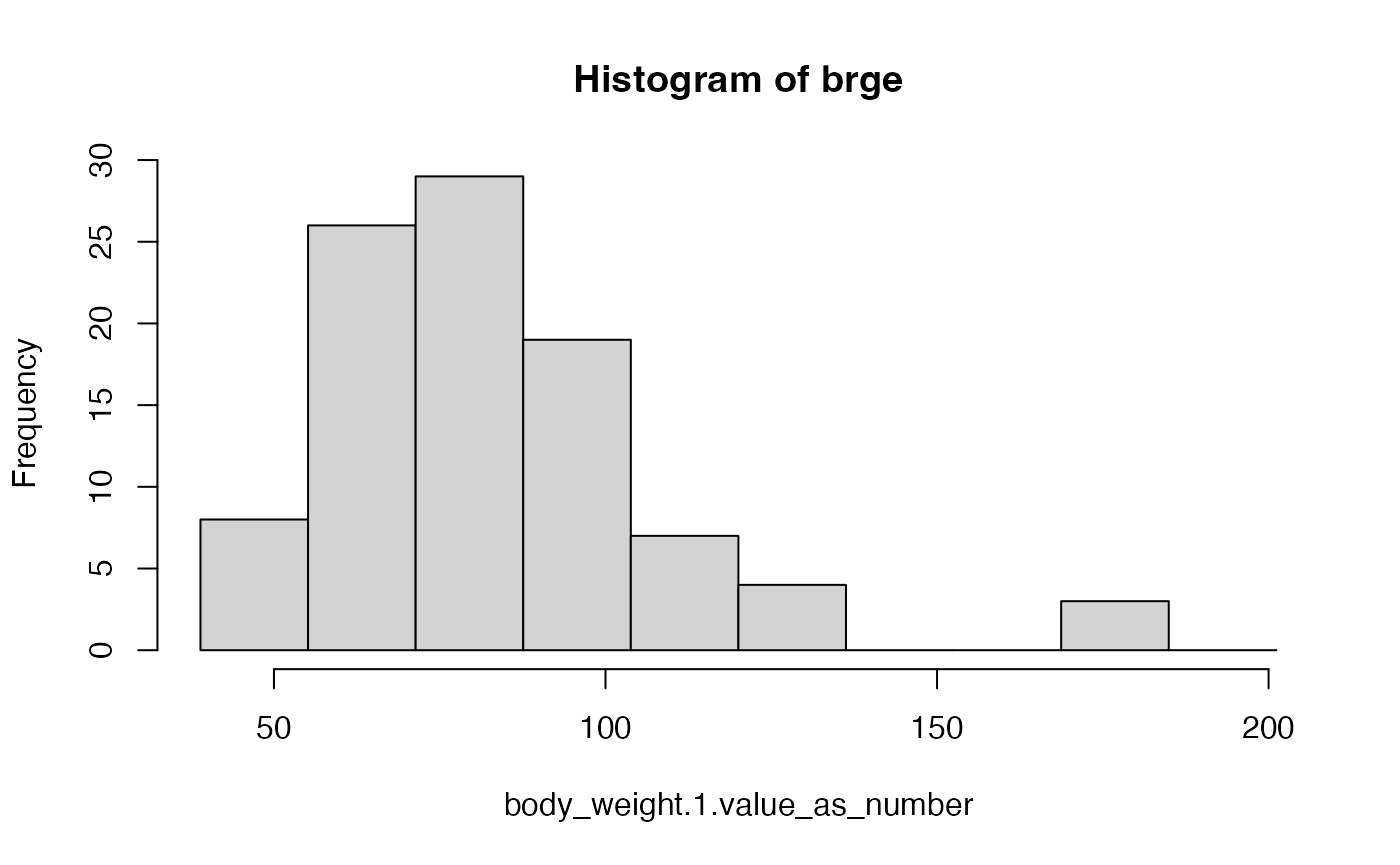
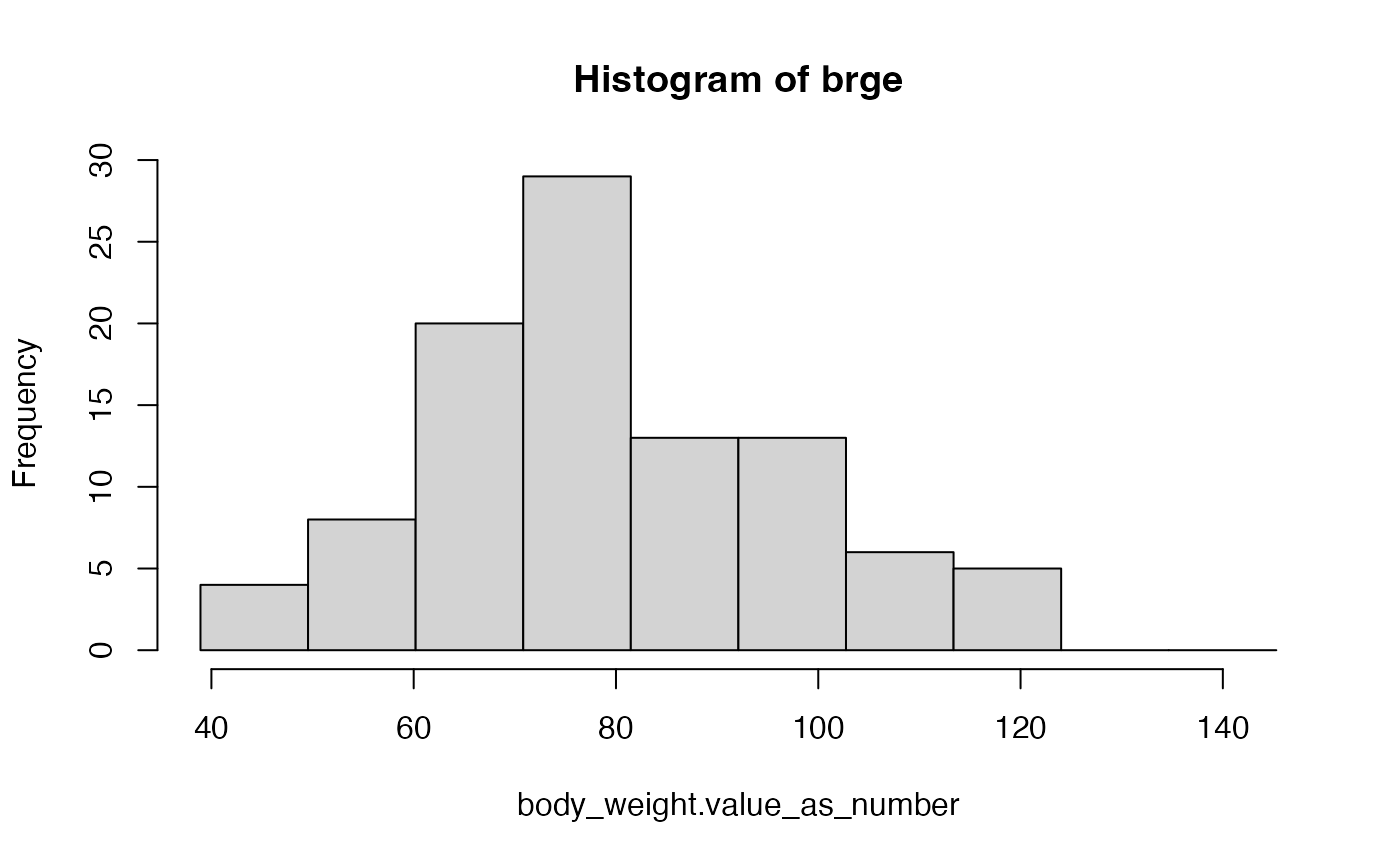
docs: long longitudinal

diff --git a/docs/articles/demo.html b/docs/articles/demo.html
@@ -316,12 +316,6 @@ variables of interest.</p>
 data extraction functions of <code>dsOMOPHelper</code> in conjunction
 with DataSHIELD’s environment functions to manipulate and analyze the
 data.</p>
-<p><code>dsOMOP</code> sequences the longitudinal data in different
-columns if it detects several occurrences of a certain type of variable
-associated with the same <code>person_id</code>. We will not be doing
-any aggregation of the data for this example, but instead, we will be
-working with the first occurrence of each kind of variable. This is why
-we will be using the suffix <code>.1</code> in the variable names.</p>
 <p>Let’s say we want to add the observation
 <code>Marital status [NHANES]</code> to our study table. To do this, we
 first need to identify the corresponding concept, which in this case is
@@ -335,7 +329,7 @@ from the <code>value_as_concept_id</code> column.</p>
 <span>       concepts <span class="op">=</span> <span class="fu"><a href="https://rdrr.io/r/base/c.html" class="external-link">c</a></span><span class="op">(</span><span class="fl">40766231</span><span class="op">)</span>,</span>
 <span>       columns <span class="op">=</span> <span class="fu"><a href="https://rdrr.io/r/base/c.html" class="external-link">c</a></span><span class="op">(</span><span class="st">"value_as_concept_id"</span><span class="op">)</span><span class="op">)</span></span>
 <span></span>
-<span><span class="fu"><a href="https://rdrr.io/pkg/dsBaseClient/man/ds.summary.html" class="external-link">ds.summary</a></span><span class="op">(</span><span class="st">"mimiciv$marital_status_nhanes.1.value_as_concept_id"</span><span class="op">)</span></span></code></pre></div>
+<span><span class="fu"><a href="https://rdrr.io/pkg/dsBaseClient/man/ds.summary.html" class="external-link">ds.summary</a></span><span class="op">(</span><span class="st">"mimiciv$marital_status_nhanes.value_as_concept_id"</span><span class="op">)</span></span></code></pre></div>
 <pre><code><span><span class="co">## $brge</span></span>
 <span><span class="co">## $brge$class</span></span>
 <span><span class="co">## [1] "factor"</span></span>
@@ -366,46 +360,46 @@ with the following categories: <code>divorced</code>,
 <code>dsBaseClient</code> to obtain a frequency table of that same
 variable:</p>
 <div class="sourceCode" id="cb15"><pre class="downlit sourceCode r">
-<code class="sourceCode R"><span><span class="fu"><a href="https://rdrr.io/pkg/dsBaseClient/man/ds.table.html" class="external-link">ds.table</a></span><span class="op">(</span><span class="st">"mimiciv$marital_status_nhanes.1.value_as_concept_id"</span><span class="op">)</span></span></code></pre></div>
+<code class="sourceCode R"><span><span class="fu"><a href="https://rdrr.io/pkg/dsBaseClient/man/ds.table.html" class="external-link">ds.table</a></span><span class="op">(</span><span class="st">"mimiciv$marital_status_nhanes.value_as_concept_id"</span><span class="op">)</span></span></code></pre></div>
 <pre><code><span><span class="co">## </span></span>
 <span><span class="co">##  Data in all studies were valid </span></span>
 <span><span class="co">## </span></span>
 <span><span class="co">## Study 1 :  No errors reported from this study</span></span></code></pre>
 <pre><code><span><span class="co">## $output.list</span></span>
 <span><span class="co">## $output.list$TABLE_rvar.by.study_row.props</span></span>
-<span><span class="co">##                                                    study</span></span>
-<span><span class="co">## mimiciv$marital_status_nhanes.1.value_as_concept_id brge</span></span>
-<span><span class="co">##                                       divorced         1</span></span>
-<span><span class="co">##                                       married          1</span></span>
-<span><span class="co">##                                       never_married    1</span></span>
-<span><span class="co">##                                       widowed          1</span></span>
-<span><span class="co">##                                       NA               1</span></span>
+<span><span class="co">##                                                  study</span></span>
+<span><span class="co">## mimiciv$marital_status_nhanes.value_as_concept_id brge</span></span>
+<span><span class="co">##                                     divorced         1</span></span>
+<span><span class="co">##                                     married          1</span></span>
+<span><span class="co">##                                     never_married    1</span></span>
+<span><span class="co">##                                     widowed          1</span></span>
+<span><span class="co">##                                     NA               1</span></span>
 <span><span class="co">## </span></span>
 <span><span class="co">## $output.list$TABLE_rvar.by.study_col.props</span></span>
-<span><span class="co">##                                                    study</span></span>
-<span><span class="co">## mimiciv$marital_status_nhanes.1.value_as_concept_id brge</span></span>
-<span><span class="co">##                                       divorced      0.10</span></span>
-<span><span class="co">##                                       married       0.37</span></span>
-<span><span class="co">##                                       never_married 0.30</span></span>
-<span><span class="co">##                                       widowed       0.13</span></span>
-<span><span class="co">##                                       NA            0.10</span></span>
+<span><span class="co">##                                                  study</span></span>
+<span><span class="co">## mimiciv$marital_status_nhanes.value_as_concept_id brge</span></span>
+<span><span class="co">##                                     divorced      0.10</span></span>
+<span><span class="co">##                                     married       0.37</span></span>
+<span><span class="co">##                                     never_married 0.30</span></span>
+<span><span class="co">##                                     widowed       0.13</span></span>
+<span><span class="co">##                                     NA            0.10</span></span>
 <span><span class="co">## </span></span>
 <span><span class="co">## $output.list$TABLE_rvar.by.study_counts</span></span>
-<span><span class="co">##                                                    study</span></span>
-<span><span class="co">## mimiciv$marital_status_nhanes.1.value_as_concept_id brge</span></span>
-<span><span class="co">##                                       divorced        10</span></span>
-<span><span class="co">##                                       married         37</span></span>
-<span><span class="co">##                                       never_married   30</span></span>
-<span><span class="co">##                                       widowed         13</span></span>
-<span><span class="co">##                                       NA              10</span></span>
+<span><span class="co">##                                                  study</span></span>
+<span><span class="co">## mimiciv$marital_status_nhanes.value_as_concept_id brge</span></span>
+<span><span class="co">##                                     divorced        10</span></span>
+<span><span class="co">##                                     married         37</span></span>
+<span><span class="co">##                                     never_married   30</span></span>
+<span><span class="co">##                                     widowed         13</span></span>
+<span><span class="co">##                                     NA              10</span></span>
 <span><span class="co">## </span></span>
 <span><span class="co">## $output.list$TABLES.COMBINED_all.sources_proportions</span></span>
-<span><span class="co">## mimiciv$marital_status_nhanes.1.value_as_concept_id</span></span>
+<span><span class="co">## mimiciv$marital_status_nhanes.value_as_concept_id</span></span>
 <span><span class="co">##      divorced       married never_married       widowed            NA </span></span>
 <span><span class="co">##          0.10          0.37          0.30          0.13          0.10 </span></span>
 <span><span class="co">## </span></span>
 <span><span class="co">## $output.list$TABLES.COMBINED_all.sources_counts</span></span>
-<span><span class="co">## mimiciv$marital_status_nhanes.1.value_as_concept_id</span></span>
+<span><span class="co">## mimiciv$marital_status_nhanes.value_as_concept_id</span></span>
 <span><span class="co">##      divorced       married never_married       widowed            NA </span></span>
 <span><span class="co">##            10            37            30            13            10 </span></span>
 <span><span class="co">## </span></span>
@@ -423,7 +417,7 @@ table. In this scenario, our goal is to retrieve data from the
 <span>       concepts <span class="op">=</span> <span class="fu"><a href="https://rdrr.io/r/base/c.html" class="external-link">c</a></span><span class="op">(</span><span class="fl">3025315</span><span class="op">)</span>,</span>
 <span>       columns <span class="op">=</span> <span class="fu"><a href="https://rdrr.io/r/base/c.html" class="external-link">c</a></span><span class="op">(</span><span class="st">"value_as_number"</span><span class="op">)</span><span class="op">)</span></span>
 <span></span>
-<span><span class="fu"><a href="https://rdrr.io/pkg/dsBaseClient/man/ds.summary.html" class="external-link">ds.summary</a></span><span class="op">(</span><span class="st">"mimiciv$body_weight.1.value_as_number"</span><span class="op">)</span></span></code></pre></div>
+<span><span class="fu"><a href="https://rdrr.io/pkg/dsBaseClient/man/ds.summary.html" class="external-link">ds.summary</a></span><span class="op">(</span><span class="st">"mimiciv$body_weight.value_as_number"</span><span class="op">)</span></span></code></pre></div>
 <pre><code><span><span class="co">## $brge</span></span>
 <span><span class="co">## $brge$class</span></span>
 <span><span class="co">## [1] "numeric"</span></span>
@@ -433,29 +427,29 @@ table. In this scenario, our goal is to retrieve data from the
 <span><span class="co">## </span></span>
 <span><span class="co">## $brge$`quantiles &amp; mean`</span></span>
 <span><span class="co">##      5%     10%     25%     50%     75%     90%     95%    Mean </span></span>
-<span><span class="co">##  52.745  59.620  68.900  79.700  97.075 121.650 148.640  86.576</span></span></code></pre>
+<span><span class="co">##  52.745  59.620  68.000  77.850  93.275 104.300 117.150  80.254</span></span></code></pre>
 <p>As we can see, we have successfully obtained a numerical variable
 that contains the body weight of the patients.</p>
 <p>To visually inspect the distribution of that same variable, we can
 generate a histogram using the <code>ds.histogram</code> function from
 <code>dsBaseClient</code>:</p>
 <div class="sourceCode" id="cb20"><pre class="downlit sourceCode r">
-<code class="sourceCode R"><span><span class="fu"><a href="https://rdrr.io/pkg/dsBaseClient/man/ds.histogram.html" class="external-link">ds.histogram</a></span><span class="op">(</span><span class="st">"mimiciv$body_weight.1.value_as_number"</span><span class="op">)</span></span></code></pre></div>
+<code class="sourceCode R"><span><span class="fu"><a href="https://rdrr.io/pkg/dsBaseClient/man/ds.histogram.html" class="external-link">ds.histogram</a></span><span class="op">(</span><span class="st">"mimiciv$body_weight.value_as_number"</span><span class="op">)</span></span></code></pre></div>
 <p><img src="demo_files/figure-html/histogram_measurement-1.png" width="700"></p>
 <pre><code><span><span class="co">## $breaks</span></span>
-<span><span class="co">##  [1]  38.91912  55.14396  71.36879  87.59363 103.81847 120.04330 136.26814</span></span>
-<span><span class="co">##  [8] 152.49297 168.71781 184.94265 201.16748</span></span>
+<span><span class="co">##  [1]  38.91912  49.55597  60.19282  70.82967  81.46652  92.10337 102.74022</span></span>
+<span><span class="co">##  [8] 113.37707 124.01392 134.65078 145.28763</span></span>
 <span><span class="co">## </span></span>
 <span><span class="co">## $counts</span></span>
-<span><span class="co">##  [1]  8 26 29 19  7  4  0  0  3  0</span></span>
+<span><span class="co">##  [1]  4  8 20 29 13 13  6  5  0  0</span></span>
 <span><span class="co">## </span></span>
 <span><span class="co">## $density</span></span>
-<span><span class="co">##  [1] 0.004930712 0.016024815 0.017873832 0.011710442 0.004314373</span></span>
-<span><span class="co">##  [6] 0.002465356 0.000000000 0.000000000 0.001849017 0.000000000</span></span>
+<span><span class="co">##  [1] 0.003760512 0.007521023 0.018802558 0.027263710 0.012221663</span></span>
+<span><span class="co">##  [6] 0.012221663 0.005640767 0.004700640 0.000000000 0.000000000</span></span>
 <span><span class="co">## </span></span>
 <span><span class="co">## $mids</span></span>
-<span><span class="co">##  [1]  47.03154  63.25638  79.48121  95.70605 111.93088 128.15572 144.38056</span></span>
-<span><span class="co">##  [8] 160.60539 176.83023 193.05506</span></span>
+<span><span class="co">##  [1]  44.23755  54.87440  65.51125  76.14810  86.78495  97.42180 108.05865</span></span>
+<span><span class="co">##  [8] 118.69550 129.33235 139.96920</span></span>
 <span><span class="co">## </span></span>
 <span><span class="co">## $xname</span></span>
 <span><span class="co">## [1] "xvect"</span></span>
@@ -487,9 +481,9 @@ linear regression analysis:</p>
 <span>       concepts <span class="op">=</span> <span class="fu"><a href="https://rdrr.io/r/base/c.html" class="external-link">c</a></span><span class="op">(</span><span class="fl">3000483</span>, <span class="fl">3004410</span>, <span class="fl">3000593</span><span class="op">)</span>,</span>
 <span>       columns <span class="op">=</span> <span class="fu"><a href="https://rdrr.io/r/base/c.html" class="external-link">c</a></span><span class="op">(</span><span class="st">"value_as_number"</span><span class="op">)</span><span class="op">)</span></span>
 <span></span>
-<span><span class="fu"><a href="https://rdrr.io/pkg/dsBaseClient/man/ds.glm.html" class="external-link">ds.glm</a></span><span class="op">(</span>formula <span class="op">=</span> <span class="st">"glucose_mass_volume_in_blood.1.value_as_number ~ </span></span>
-<span><span class="st">                  hemoglobin_a1c_hemoglobin_total_in_blood.1.value_as_number + </span></span>
-<span><span class="st">                  cobalamin_vitamin_b12_mass_volume_in_serum_or_plasma.1.value_as_number"</span>,</span>
+<span><span class="fu"><a href="https://rdrr.io/pkg/dsBaseClient/man/ds.glm.html" class="external-link">ds.glm</a></span><span class="op">(</span>formula <span class="op">=</span> <span class="st">"glucose_mass_volume_in_blood.value_as_number ~ </span></span>
+<span><span class="st">                  hemoglobin_a1c_hemoglobin_total_in_blood.value_as_number + </span></span>
+<span><span class="st">                  cobalamin_vitamin_b12_mass_volume_in_serum_or_plasma.value_as_number"</span>,</span>
 <span>       data <span class="op">=</span> <span class="st">"mimiciv"</span>,</span>
 <span>       family <span class="op">=</span> <span class="st">"gaussian"</span>,</span>
 <span>       datasources <span class="op">=</span> <span class="va">conns</span><span class="op">)</span></span></code></pre></div>
@@ -506,24 +500,24 @@ linear regression analysis:</p>
 <span><span class="co">## beta: 120.958893279016 0.82795236254575 -0.0161066743745843</span></span></code></pre>
 <pre><code><span><span class="co">## </span></span>
 <span><span class="co">## Information matrix overall:</span></span></code></pre>
-<pre><code><span><span class="co">##                                                                        (Intercept)</span></span>
-<span><span class="co">## (Intercept)                                                                   10.0</span></span>
-<span><span class="co">## hemoglobin_a1c_hemoglobin_total_in_blood.1.value_as_number                    65.4</span></span>
-<span><span class="co">## cobalamin_vitamin_b12_mass_volume_in_serum_or_plasma.1.value_as_number      7434.0</span></span>
-<span><span class="co">##                                                                        hemoglobin_a1c_hemoglobin_total_in_blood.1.value_as_number</span></span>
-<span><span class="co">## (Intercept)                                                                                                                 65.40</span></span>
-<span><span class="co">## hemoglobin_a1c_hemoglobin_total_in_blood.1.value_as_number                                                                 451.24</span></span>
-<span><span class="co">## cobalamin_vitamin_b12_mass_volume_in_serum_or_plasma.1.value_as_number                                                   47292.00</span></span>
-<span><span class="co">##                                                                        cobalamin_vitamin_b12_mass_volume_in_serum_or_plasma.1.value_as_number</span></span>
-<span><span class="co">## (Intercept)                                                                                                                              7434</span></span>
-<span><span class="co">## hemoglobin_a1c_hemoglobin_total_in_blood.1.value_as_number                                                                              47292</span></span>
-<span><span class="co">## cobalamin_vitamin_b12_mass_volume_in_serum_or_plasma.1.value_as_number                                                                7317894</span></span></code></pre>
+<pre><code><span><span class="co">##                                                                      (Intercept)</span></span>
+<span><span class="co">## (Intercept)                                                                 10.0</span></span>
+<span><span class="co">## hemoglobin_a1c_hemoglobin_total_in_blood.value_as_number                    65.4</span></span>
+<span><span class="co">## cobalamin_vitamin_b12_mass_volume_in_serum_or_plasma.value_as_number      7434.0</span></span>
+<span><span class="co">##                                                                      hemoglobin_a1c_hemoglobin_total_in_blood.value_as_number</span></span>
+<span><span class="co">## (Intercept)                                                                                                             65.40</span></span>
+<span><span class="co">## hemoglobin_a1c_hemoglobin_total_in_blood.value_as_number                                                               451.24</span></span>
+<span><span class="co">## cobalamin_vitamin_b12_mass_volume_in_serum_or_plasma.value_as_number                                                 47292.00</span></span>
+<span><span class="co">##                                                                      cobalamin_vitamin_b12_mass_volume_in_serum_or_plasma.value_as_number</span></span>
+<span><span class="co">## (Intercept)                                                                                                                          7434</span></span>
+<span><span class="co">## hemoglobin_a1c_hemoglobin_total_in_blood.value_as_number                                                                            47292</span></span>
+<span><span class="co">## cobalamin_vitamin_b12_mass_volume_in_serum_or_plasma.value_as_number                                                              7317894</span></span></code></pre>
 <pre><code><span><span class="co">## </span></span>
 <span><span class="co">## Score vector overall:</span></span></code></pre>
-<pre><code><span><span class="co">##                                                                                 [,1]</span></span>
-<span><span class="co">## (Intercept)                                                            -2.799538e-12</span></span>
-<span><span class="co">## hemoglobin_a1c_hemoglobin_total_in_blood.1.value_as_number             -1.841727e-11</span></span>
-<span><span class="co">## cobalamin_vitamin_b12_mass_volume_in_serum_or_plasma.1.value_as_number -2.106390e-09</span></span></code></pre>
+<pre><code><span><span class="co">##                                                                               [,1]</span></span>
+<span><span class="co">## (Intercept)                                                          -2.799538e-12</span></span>
+<span><span class="co">## hemoglobin_a1c_hemoglobin_total_in_blood.value_as_number             -1.841727e-11</span></span>
+<span><span class="co">## cobalamin_vitamin_b12_mass_volume_in_serum_or_plasma.value_as_number -2.106390e-09</span></span></code></pre>
 <pre><code><span><span class="co">## </span></span>
 <span><span class="co">## Current deviance: 21068.1496506415</span></span></code></pre>
 <pre><code><span><span class="co">## $Nvalid</span></span>
@@ -556,33 +550,33 @@ linear regression analysis:</p>
 <span><span class="co">## </span></span>
 <span><span class="co">## </span></span>
 <span><span class="co">## $formula</span></span>
-<span><span class="co">## [1] "glucose_mass_volume_in_blood.1.value_as_number ~ hemoglobin_a1c_hemoglobin_total_in_blood.1.value_as_number +      cobalamin_vitamin_b12_mass_volume_in_serum_or_plasma.1.value_as_number"</span></span>
+<span><span class="co">## [1] "glucose_mass_volume_in_blood.value_as_number ~ hemoglobin_a1c_hemoglobin_total_in_blood.value_as_number +      cobalamin_vitamin_b12_mass_volume_in_serum_or_plasma.value_as_number"</span></span>
 <span><span class="co">## </span></span>
 <span><span class="co">## $coefficients</span></span>
-<span><span class="co">##                                                                            Estimate</span></span>
-<span><span class="co">## (Intercept)                                                            120.95889328</span></span>
-<span><span class="co">## hemoglobin_a1c_hemoglobin_total_in_blood.1.value_as_number               0.82795236</span></span>
-<span><span class="co">## cobalamin_vitamin_b12_mass_volume_in_serum_or_plasma.1.value_as_number  -0.01610667</span></span>
-<span><span class="co">##                                                                         Std. Error</span></span>
-<span><span class="co">## (Intercept)                                                            89.11697092</span></span>
-<span><span class="co">## hemoglobin_a1c_hemoglobin_total_in_blood.1.value_as_number             11.55494959</span></span>
-<span><span class="co">## cobalamin_vitamin_b12_mass_volume_in_serum_or_plasma.1.value_as_number  0.04187167</span></span>
-<span><span class="co">##                                                                            z-value</span></span>
-<span><span class="co">## (Intercept)                                                             1.35730481</span></span>
-<span><span class="co">## hemoglobin_a1c_hemoglobin_total_in_blood.1.value_as_number              0.07165348</span></span>
-<span><span class="co">## cobalamin_vitamin_b12_mass_volume_in_serum_or_plasma.1.value_as_number -0.38466759</span></span>
-<span><span class="co">##                                                                          p-value</span></span>
-<span><span class="co">## (Intercept)                                                            0.1746844</span></span>
-<span><span class="co">## hemoglobin_a1c_hemoglobin_total_in_blood.1.value_as_number             0.9428777</span></span>
-<span><span class="co">## cobalamin_vitamin_b12_mass_volume_in_serum_or_plasma.1.value_as_number 0.7004837</span></span>
-<span><span class="co">##                                                                           low0.95CI</span></span>
-<span><span class="co">## (Intercept)                                                            -53.70716014</span></span>
-<span><span class="co">## hemoglobin_a1c_hemoglobin_total_in_blood.1.value_as_number             -21.81933267</span></span>
-<span><span class="co">## cobalamin_vitamin_b12_mass_volume_in_serum_or_plasma.1.value_as_number  -0.09817364</span></span>
-<span><span class="co">##                                                                          high0.95CI</span></span>
-<span><span class="co">## (Intercept)                                                            295.62494670</span></span>
-<span><span class="co">## hemoglobin_a1c_hemoglobin_total_in_blood.1.value_as_number              23.47523740</span></span>
-<span><span class="co">## cobalamin_vitamin_b12_mass_volume_in_serum_or_plasma.1.value_as_number   0.06596029</span></span>
+<span><span class="co">##                                                                          Estimate</span></span>
+<span><span class="co">## (Intercept)                                                          120.95889328</span></span>
+<span><span class="co">## hemoglobin_a1c_hemoglobin_total_in_blood.value_as_number               0.82795236</span></span>
+<span><span class="co">## cobalamin_vitamin_b12_mass_volume_in_serum_or_plasma.value_as_number  -0.01610667</span></span>
+<span><span class="co">##                                                                       Std. Error</span></span>
+<span><span class="co">## (Intercept)                                                          89.11697092</span></span>
+<span><span class="co">## hemoglobin_a1c_hemoglobin_total_in_blood.value_as_number             11.55494959</span></span>
+<span><span class="co">## cobalamin_vitamin_b12_mass_volume_in_serum_or_plasma.value_as_number  0.04187167</span></span>
+<span><span class="co">##                                                                          z-value</span></span>
+<span><span class="co">## (Intercept)                                                           1.35730481</span></span>
+<span><span class="co">## hemoglobin_a1c_hemoglobin_total_in_blood.value_as_number              0.07165348</span></span>
+<span><span class="co">## cobalamin_vitamin_b12_mass_volume_in_serum_or_plasma.value_as_number -0.38466759</span></span>
+<span><span class="co">##                                                                        p-value</span></span>
+<span><span class="co">## (Intercept)                                                          0.1746844</span></span>
+<span><span class="co">## hemoglobin_a1c_hemoglobin_total_in_blood.value_as_number             0.9428777</span></span>
+<span><span class="co">## cobalamin_vitamin_b12_mass_volume_in_serum_or_plasma.value_as_number 0.7004837</span></span>
+<span><span class="co">##                                                                         low0.95CI</span></span>
+<span><span class="co">## (Intercept)                                                          -53.70716014</span></span>
+<span><span class="co">## hemoglobin_a1c_hemoglobin_total_in_blood.value_as_number             -21.81933267</span></span>
+<span><span class="co">## cobalamin_vitamin_b12_mass_volume_in_serum_or_plasma.value_as_number  -0.09817364</span></span>
+<span><span class="co">##                                                                        high0.95CI</span></span>
+<span><span class="co">## (Intercept)                                                          295.62494670</span></span>
+<span><span class="co">## hemoglobin_a1c_hemoglobin_total_in_blood.value_as_number              23.47523740</span></span>
+<span><span class="co">## cobalamin_vitamin_b12_mass_volume_in_serum_or_plasma.value_as_number   0.06596029</span></span>
 <span><span class="co">## </span></span>
 <span><span class="co">## $dev</span></span>
 <span><span class="co">## [1] 21068.15</span></span>
